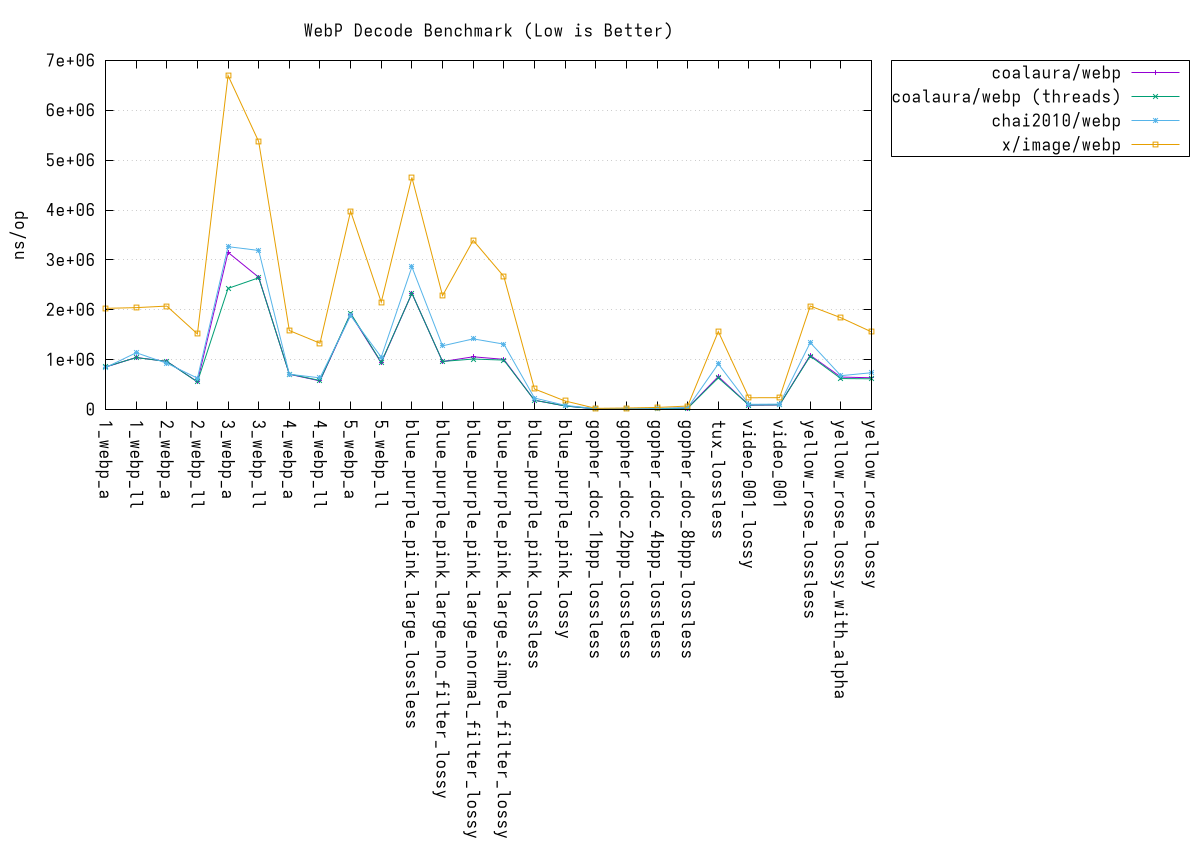
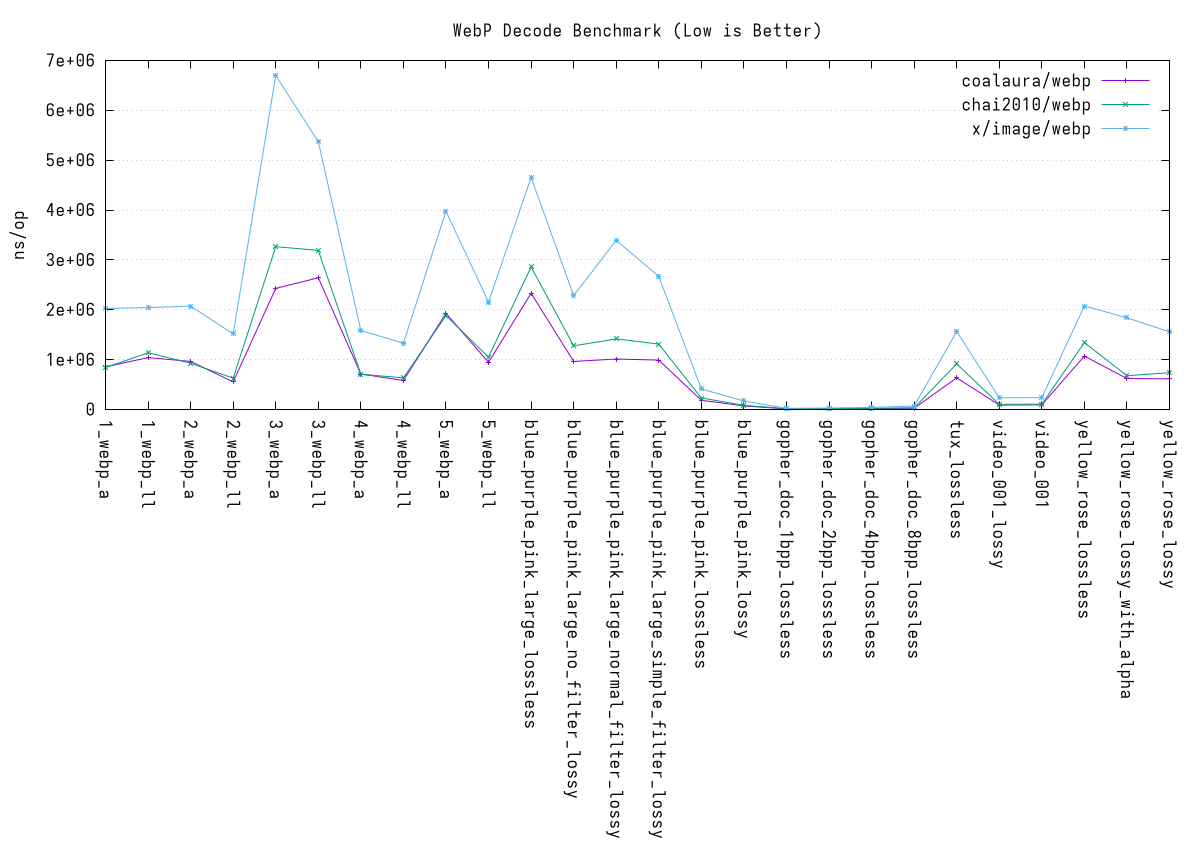
use threading by default

diff --git a/bench/gen.go b/bench/gen.go
@@ -116,13 +116,13 @@ func tbLoadImage(tb testing.TB, filename string) image.Image {
 	return m
 }
 
-func encodeOptionsForFilename(filename string, useThreads bool) *coalaura_webp.Options {
+func encodeOptionsForFilename(filename string) *coalaura_webp.Options {
 	opt := &coalaura_webp.Options{
 		Lossless:     strings.Contains(filename, "lossless"),
 		Quality:      coalaura_webp.DefaultQuality,
 		Method:       coalaura_webp.DefaultMethod,
 		AlphaQuality: coalaura_webp.DefaultAlphaQuality,
-		UseThreads:   useThreads,
+		UseThreads:   true,
 	}
 	return opt
 }
@@ -156,34 +156,9 @@ func BenchmarkDecode_{{.goodBaseName}}_x_image_webp(b *testing.B) {
 	}
 }
 
-func BenchmarkDecode_{{.goodBaseName}}_coalaura_webp_threaded(b *testing.B) {
-	data := tbLoadData(b, "{{.filename}}")
-	b.ResetTimer()
-	for i := 0; i < b.N; i++ {
-		m, err := coalaura_webp.DecodeWithOptions(bytes.NewReader(data), &coalaura_webp.DecodeOptions{UseThreads: true})
-		if err != nil {
-			b.Fatal(err)
-		}
-		_ = m
-	}
-}
-
 func BenchmarkEncode_{{.goodBaseName}}_coalaura_webp(b *testing.B) {
 	img := tbLoadImage(b, "{{.filename}}")
-	opt := encodeOptionsForFilename("{{.filename}}", false)
-	var buf bytes.Buffer
-	b.ResetTimer()
-	for i := 0; i < b.N; i++ {
-		buf.Reset()
-		if err := coalaura_webp.Encode(&buf, img, opt); err != nil {
-			b.Fatal(err)
-		}
-	}
-}
-
-func BenchmarkEncode_{{.goodBaseName}}_coalaura_webp_threaded(b *testing.B) {
-	img := tbLoadImage(b, "{{.filename}}")
-	opt := encodeOptionsForFilename("{{.filename}}", true)
+	opt := encodeOptionsForFilename("{{.filename}}")
 	var buf bytes.Buffer
 	b.ResetTimer()
 	for i := 0; i < b.N; i++ {

diff --git a/writer.go b/writer.go
@@ -28,7 +28,7 @@ type Options struct {
 	AutoFilter   bool    // Auto-adjust filter for each image
 	Exact        bool    // Preserve RGB values in transparent area.
 	Method       int     // Quality/speed trade-off (0=fast, 6=slower-better)
-	UseThreads   bool    // Enable libwebp multi-threading
+	UseThreads   bool    // Enable libwebp multi-threading (default true)
 }
 
 type colorModeler interface {
@@ -56,7 +56,7 @@ func encode(w io.Writer, m image.Image, opt *Options) (err error) {
 	targetSize := 0
 	alphaQuality := DefaultAlphaQuality
 	autoFilter := false
-	useThreads := false
+	useThreads := true
 	if opt != nil {
 		method = opt.Method
 		targetSize = opt.TargetSize

diff --git a/webp.go b/webp.go
@@ -44,7 +44,7 @@ func DecodeRGB(data []byte) (m *RGBImage, err error) {
 }
 
 func DecodeRGBWithOptions(data []byte, opt *DecodeOptions) (m *RGBImage, err error) {
-	useThreads := false
+	useThreads := true
 	if opt != nil {
 		useThreads = opt.UseThreads
 	}
@@ -66,7 +66,7 @@ func DecodeRGBA(data []byte) (m *image.RGBA, err error) {
 }
 
 func DecodeRGBAWithOptions(data []byte, opt *DecodeOptions) (m *image.RGBA, err error) {
-	useThreads := false
+	useThreads := true
 	if opt != nil {
 		useThreads = opt.UseThreads
 	}

diff --git a/reader.go b/reader.go
@@ -26,7 +26,7 @@ type Config struct {
 }
 
 type DecodeOptions struct {
-	UseThreads bool
+	UseThreads bool // Enable libwebp multi-threading (default true)
 }
 
 func LoadConfigEx(name string) (config Config, err error) {
